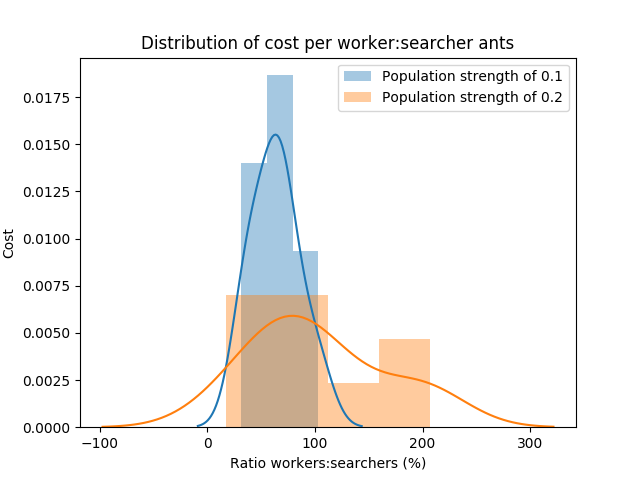
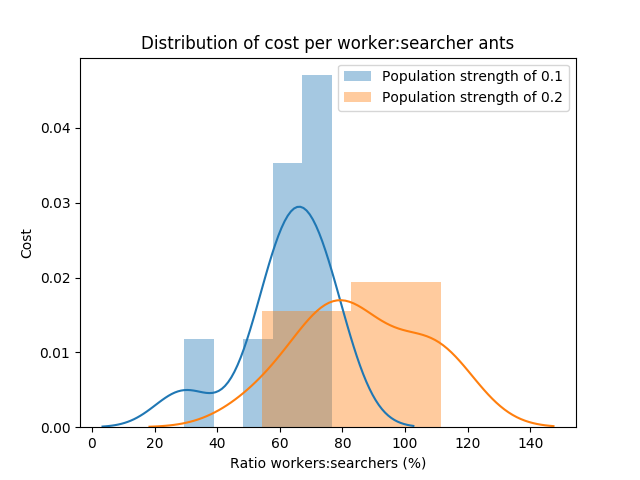
Zoals in de chat was t elezen is final.py echt een klad papier geweest, maar dan weten jullie hoe het is geplot. Ik heb ook de test_grid.py aangepast zodat het een clean code is. Maar deze moet zeker gecheckt worden, want het is laat en dan maak ik makkelijk fouten. JOEEE

diff --git a/test_grid.py b/test_grid.py
@@ -837,8 +837,6 @@ This function returns the t-test value and the p-value between two populations.
 '''
 def ttest_pvalue(pop1, pop2):
     ttest = stats.ttest_ind(pop1, pop2)
-    print("This is the t-value:" + ttest[0])
-    print("This is the p-value:" + ttest[1])
     return ttest[0], ttest[1]
 
 
@@ -867,54 +865,47 @@ while not correct_input:
         food_sources = [(11,18)]
         food_sources2 = [(11, 18), (2, 1)]
 
-        #cost, boards = make_data(25, 0.1, 0.005, food_sources)
-        #cost1, boards1 = make_data(25, 0.1, 0.005, food_sources2)
-        cost2, boards2 = make_data(25, 0.2, 0.005, food_sources)
-        #cost3, boards3 = make_data(25, 0.1, 0.01, food_sources)
-        end = time.time()
-        #plot_distributions(cost, cost1, 'with one food source', 'with two food sources', 'diff_food_source.png')
-        #plot_distributions(cost, cost2, 'strength of 0.1', 'strength of 0.2', 'diff_pher_strength.png')
-        #plot_distributions(cost, cost3, 'fade of 0.005', 'fade of 0.01', ' diff_pher_fade.png')
+        cost, boards = make_data(25, 0.1, 0.005, food_sources)
+        with open("cost.txt", "w") as output:
+            output.write(str(cost))
+            output.write(str(boards))
 
-
-        # cost, boards = make_data(25, 0.1, 0.005, food_sources)
-        # with open("cost.txt", "w") as output:
-        #     output.write(str(cost))
-        #     output.write(str(boards))
-        #
-        # cost1, boards1 = make_data(25, 0.1, 0.005, food_sources2)
-        # with open("cost1.txt", "w") as output:
-        #     output.write(str(cost1))
-        #     output.write(str(boards1))
+        cost1, boards1 = make_data(25, 0.1, 0.005, food_sources2)
+        with open("cost1.txt", "w") as output:
+            output.write(str(cost1))
+            output.write(str(boards1))
 
         cost2, boards2 = make_data(25, 0.2, 0.005, food_sources)
         with open("cost2.txt", "w") as output:
             output.write(str(cost2))
             output.write(str(boards2))
-        #
-        # cost3, boards3 = make_data(25, 0.1, 0.01, food_sources)
-        # with open("cost3.txt", "w") as output:
-        #     output.write(str(cost3))
-        #     output.write(str(boards3))
 
-        #end = time.time()
+        cost3, boards3 = make_data(25, 0.1, 0.01, food_sources)
+        with open("cost3.txt", "w") as output:
+            output.write(str(cost3))
+            output.write(str(boards3))
+
+        end = time.time()
+
+
+        plot_distributions(cost, cost1, 'with one food source', 'with two food sources', 'diff_food_source.png')
+        plot_distributions(cost, cost2, 'strength of 0.1', 'strength of 0.2', 'diff_pher_strength.png')
+        plot_distributions(cost, cost3, 'fade of 0.005', 'fade of 0.01', ' diff_pher_fade.png')
 
         correct_input = True
 
-        #print(start)
-        #print(end)
 
-        #food_t, food_p = ttest_pvalue(cost, cost1)
+        food_t, food_p = ttest_pvalue(cost, cost1)
         strength_t, strength_p = ttest_pvalue(cost, cost2)
-        #fade_t, fade_p = ttest_pvalue(cost, cost3)
+        fade_t, fade_p = ttest_pvalue(cost, cost3)
 
-        #print("The t-value for food:" + food_t + "The p-value for food" + food_p)
+        print("The t-value for food:" + food_t + "The p-value for food" + food_p)
         print("The t-value for strength:" + strength_t + "The p-value for strength" + strength_p)
-        #print("The t-value for fade:" + fade_t + "The p-value for fade" + fade_p)
+        print("The t-value for fade:" + fade_t + "The p-value for fade" + fade_p)
 
-        # print(cost)
-        # print(cost1)
+        print(cost)
+        print(cost1)
         print(cost2)
-        # print(cost3)
+        print(cost3)
     else:
         print("Incorrect input. Please enter either 'run simulation' or 'show visual'")

diff --git a/final.py b/final.py
@@ -1,0 +1,103 @@
+import numpy as np
+import random
+import matplotlib as mpl
+import matplotlib.pyplot as plt
+from matplotlib import cm
+from numpy.random import choice
+import copy
+from matplotlib import cm
+import matplotlib
+import matplotlib.image as mpimg
+import matplotlib.animation as animation
+from math import *
+import queue
+from scipy import stats
+import seaborn as sns
+from drawnow import drawnow, figure
+import time
+from statistics import stdev
+
+from scipy.stats import norm
+
+cost = [29.40199999999977, 55.60799999999975, 69.1879999999993, 75.95399999999943, 58.23599999999997, 63.727999999999454, 76.64599999999909, 68.73999999999944, 62.928000000000104]
+boards = [228.82, 228.34, 212.74, 212.9, 166.2, 155.38, 170.0, 143.44, 131.72]
+
+
+cost1= [17.429999999999776, 56.44799999999994, 98.45400000000005, 139.56199999999998, 138.83799999999997, 166.746, 179.166, 175.09200000000004, 200.0]
+boards1 = [191.68, 221.46, 308.56, 381.6, 370.5, 433.26, 462.02, 450.34, 500.0]
+
+cost2  = [54.284999999999734, 86.56299999999963, 111.38799999999938, 111.48699999999948, 105.5279999999994, 84.54799999999904, 76.93799999999926, 74.60799999999944, 71.62399999999963]
+board3 = [280.78, 272.1, 301.39, 288.02, 260.46, 197.49, 169.48, 159.96, 145.97]
+
+cost3 = [98.54199999999966, 131.28999999999922, 118.39799999999954, 113.78599999999955, 118.16799999999925, 72.99399999999932, 71.05799999999925, 65.36599999999984, 68.95199999999971]
+boards3 = [331.5, 317.92, 286.78, 269.96, 262.72, 173.46, 158.68, 142.34, 139.98]
+
+
+
+
+
+'''
+This function will plot the standard deviations of 2 populations. The
+input is two arrays containing tuples.
+'''
+def plot_distributions(pop1, pop2, term1, term2, titel):
+    # plot the histograms and distibution of the data
+    sns.distplot(pop1)
+    sns.distplot(pop2)
+
+    # add labels
+    plt.title('Distribution of cost per worker:searcher ants')
+    plt.xlabel('Ratio workers:searchers (%)')
+    plt.legend(labels=['Population ' + term1,'Population ' + term2])
+    plt.ylabel('Cost')
+    plt.savefig(titel)
+    plt.show()
+
+
+'''
+This function returns the t-test value and the p-value between two populations.
+'''
+def ttest_pvalue(pop1, pop2):
+    ttest = stats.ttest_ind(pop1, pop2)
+    return ttest[0], ttest[1]
+
+
+
+food_t, food_p = ttest_pvalue(cost, cost1)
+strength_t, strength_p = ttest_pvalue(cost, cost2)
+fade_t, fade_p = ttest_pvalue(cost, cost3)
+
+# print(food_t)
+# print(food_p)
+#
+# print(strength_t)
+# print(strength_p)
+#
+# print(fade_t)
+# print(fade_p)
+
+# print("The t-value for food:" + food_t + "The p-value for food" + food_p)
+# print("The t-value for strength:" + strength_t + "The p-value for strength" + strength_p)
+# print("The t-value for fade:" + fade_t + "The p-value for fade" + fade_p)
+#
+#plot_distributions(cost, cost1, 'with one food source', 'with two food sources', 'diff_food_source.png')
+# plot_distributions(cost, cost2, 'strength of 0.1', 'strength of 0.2', 'diff_pher_strength.png')
+# plot_distributions(cost, cost3, 'fade of 0.005', 'fade of 0.01', ' diff_pher_fade.png')
+
+
+
+def scatter_boiii(cost, term, titel):
+    x = list(range(1,10))
+    plt.scatter(x, cost)
+    plt.plot(x,cost, color = 'orange')
+    plt.title('Distribution of cost per worker:searcher ants')
+    plt.xlabel('Ratio workers:searchers (%)')
+    plt.legend(labels=['Population ' + term])#,'Population ' + term2])
+    plt.ylabel('Cost')
+    plt.savefig(titel)
+    plt.show()
+
+scatter_boiii(cost, 'Baseline', 'baseline.png')
+scatter_boiii(cost1, 'Two food sources', 'two_food_boisss.png')
+scatter_boiii(cost2, 'Higher pheromone strength', 'high_on_pheromone.png')
+scatter_boiii(cost3, 'Higher fading rate of pheromone', 'fading.png')
